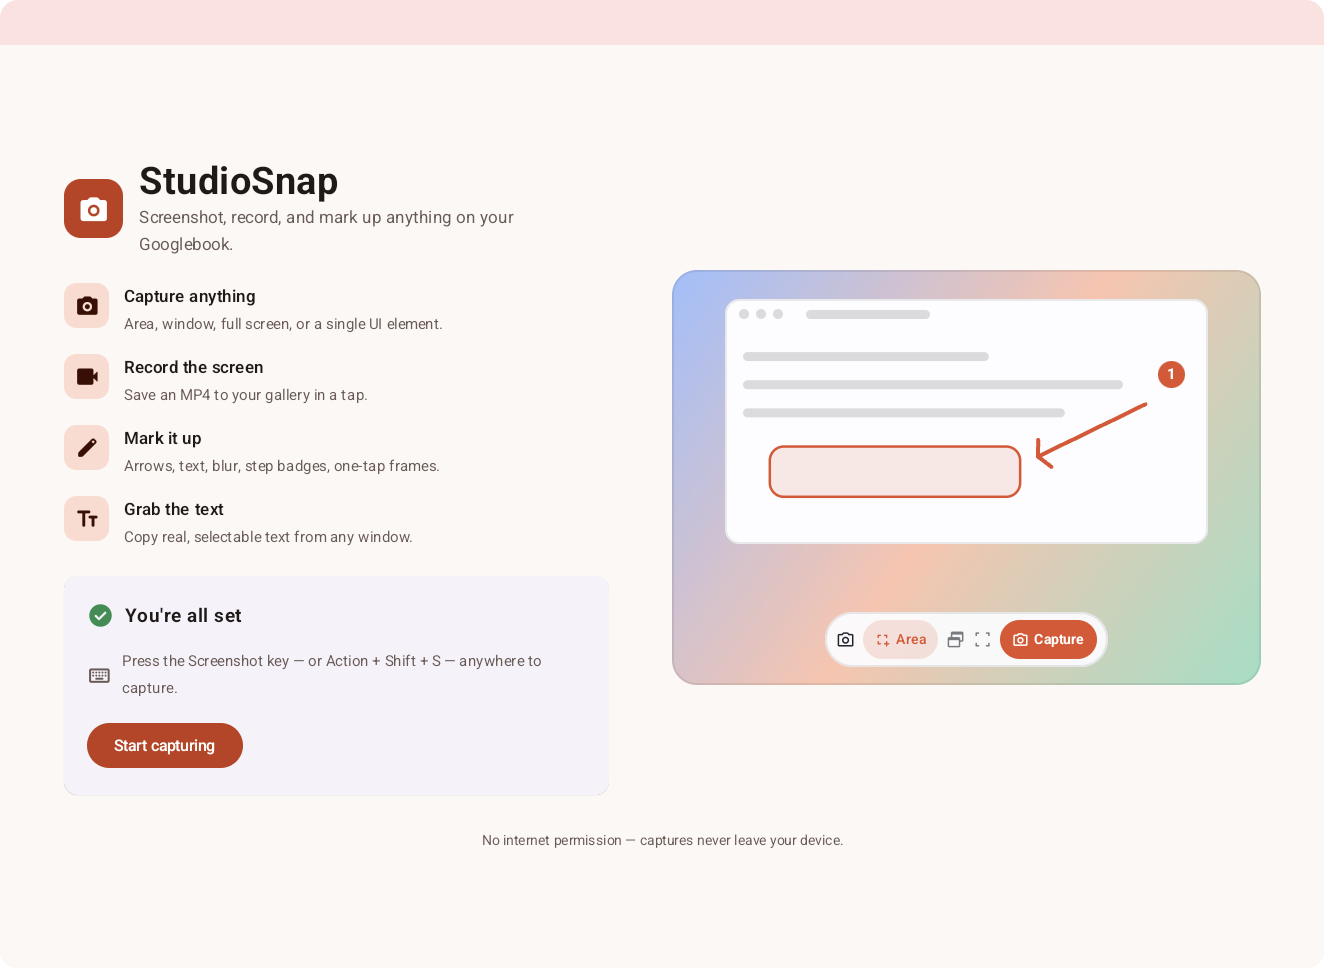
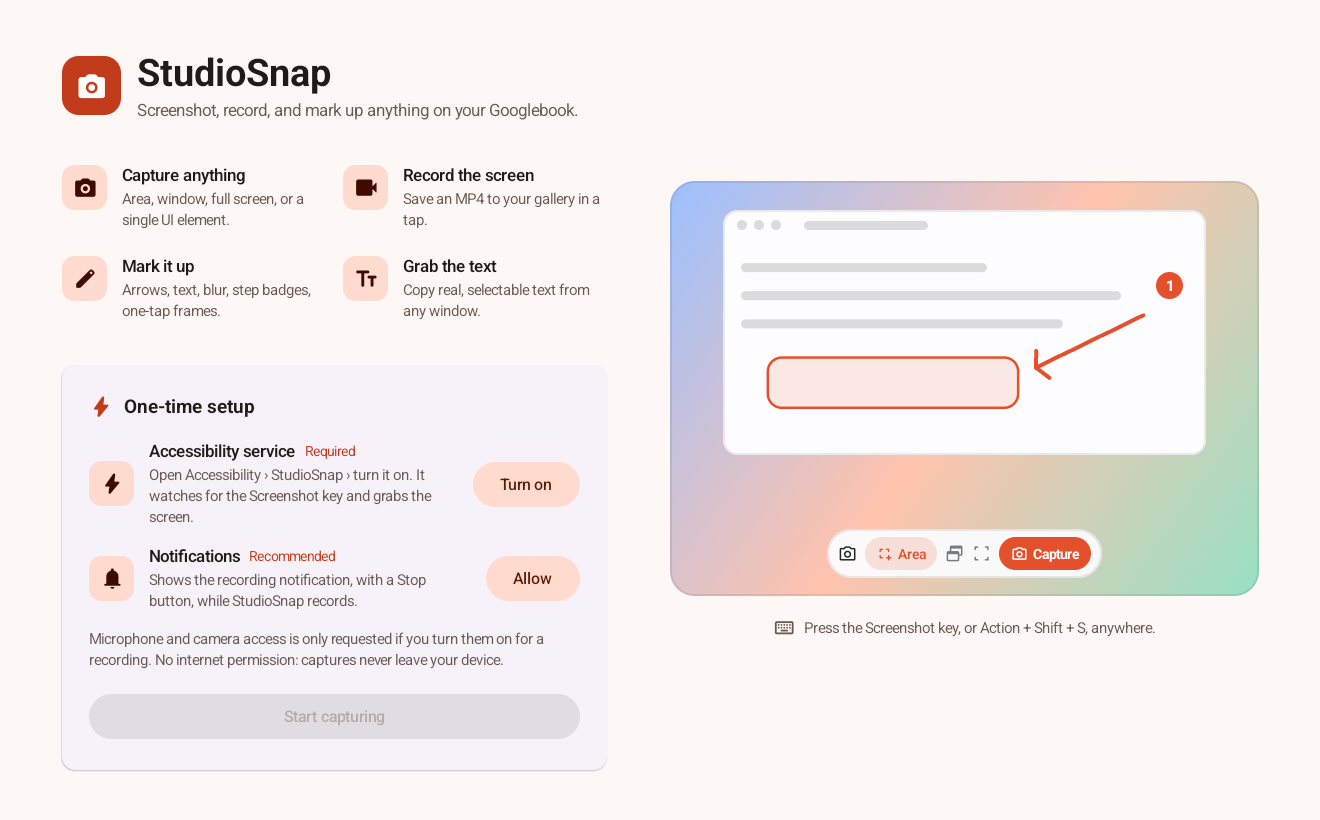
0.5.0: Jesse's five PRs; Play videos re-recorded, screenshot 04 shows the new first run
Claude-Session: https://claude.ai/code/session_01A7baRW6ye8n6TEwMLDyKpR

diff --git a/store-submission/forms/app-content.md b/store-submission/forms/app-content.md
@@ -17,6 +17,6 @@
 
 ## Declarations that need more than a tick
 
-- **Accessibility API.** StudioSnap is not an accessibility tool. Core feature: it notices the capture key (Screenshot key, or Action + Shift + S) and reads the screen's windows, UI elements and text when the user captures, to capture an area, a window, a UI element or text. It doesn't log keystrokes or store input, and nothing leaves the device (no internet permission). Needs a **video** showing the explanation before consent, the consent in Accessibility settings, and a capture with the key. The in-app disclosure (`ui/AccessibilityDisclosure.kt`, since PR #9) is a dialog that every Turn on opens (first run, home, Settings › Permissions): it names each use, says what the service reads stays on the device and is never collected or shared, and ends in **Agree and turn on** or **Cancel**. **The video filed on 2026-09-30 shows 0.4.1's setup card, not the dialog: re-record it before submitting a build with the dialog**, showing Turn on, the dialog, Cancel (the decline flow), Turn on again, Agree and turn on, the consent in Accessibility settings, and a capture with the key. Listing screenshot 04 shows the old card too.
+- **Accessibility API.** StudioSnap is not an accessibility tool. Core feature: it notices the capture key (Screenshot key, or Action + Shift + S) and reads the screen's windows, UI elements and text when the user captures, to capture an area, a window, a UI element or text. It doesn't log keystrokes or store input, and nothing leaves the device (no internet permission). Needs a **video** showing the explanation before consent, the consent in Accessibility settings, and a capture with the key. The in-app disclosure (`ui/AccessibilityDisclosure.kt`, since PR #9) is a dialog that every Turn on opens (first run, home, Settings › Permissions): it names each use, says what the service reads stays on the device and is never collected or shared, and ends in **Agree and turn on** or **Cancel**. Re-recorded for 0.5.0 on 2026-09-30 (https://youtu.be/mwZW_b2e714): Turn on, the dialog, Cancel (the decline flow), Turn on again, Agree and turn on, the consent in Accessibility settings, and a capture with the key. Listing screenshot 04 shows 0.5.0's first run.
 - **Foreground service permissions:** `mediaProjection` (screen recording the user starts, with Android's own consent each time and a notification with Stop; since 0.4.1 StudioSnap asks once for notifications before the first recording, otherwise Android hides that notification) and `microphone` (the voice-over and system audio while recording, only with those toggles on). Each needs a description and a **video** of the feature (one recording video can show both).
-- **Done 2026-09-30** (saved in Play Console, not sent for review): Accessibility API with App functionality and no data collected; media projection as "Media and content projection, streaming" and microphone as "Background audio input". The videos are unlisted on YouTube; links in Play Console and in kuscher/googlebook-tech `docs/PICKING-UP.md`.
+- **Done 2026-09-30** (saved in Play Console, not sent for review): Accessibility API with App functionality and no data collected; media projection as "Media and content projection, streaming" and microphone as "Background audio input". The videos are unlisted on YouTube; links in Play Console and in kuscher/googlebook-tech `docs/PICKING-UP.md`. For 0.5.0 both were re-recorded (accessibility https://youtu.be/mwZW_b2e714, recording https://youtu.be/y0SnZ3-ifPg, showing Video mode) and the declarations point at them.

diff --git a/docs/release-notes/0.5.0.md b/docs/release-notes/0.5.0.md
@@ -1,0 +1,22 @@
+A clearer first run, a bar that knows you're recording, and messages that always show. Everything still runs on your Googlebook: StudioSnap has no INTERNET permission.
+
+**Download:** grab `StudioSnap.apk` below. It installs over 0.4.1 and keeps your settings. If you installed 0.4 or earlier from GitHub before 30 September 2026, uninstall it once first: releases are signed with a new key, the same one Google Play uses.
+
+All five changes come from Jesse's testing of 0.4 on an Acer Googlebook 14 (#8 to #12).
+
+## New in 0.5.0
+
+- **First run on one page.** The four features in a grid and one setup card: the accessibility service, notifications, and a line on the microphone and camera. **Start capturing** is always there and unlocks once the service is on.
+- **Turn on explains itself every time.** Every **Turn on** (first run, home, Settings › Permissions) opens a short dialog that says what the service lets StudioSnap do and that what it reads stays on your Googlebook. **Agree and turn on** opens Android's settings; **Cancel** does nothing.
+- **Permissions in Settings.** Settings has a Permissions section for the service and notifications, and home shows a card while notifications are off.
+- **Video mode.** The bar's Record mode is now called **Video** (modes are nouns, buttons are verbs). Open the bar during a recording and it starts in Video mode with a red **Stop** button; a stray click elsewhere only closes the bar, never the recording.
+
+## Fixes
+
+- **Messages always show.** Hints like "Already recording" or "Stop the recording to change the mic or system audio" were dropped by Android when notifications were off. They now show as a small pill next to the bar.
+- **Camera bubble controls stay out of recordings.** While recording, the bubble's controls come up on a click, not on hover, and fold away after 3 seconds.
+- **The camera turns off at Stop**, and the recording is saved off the main thread, so StudioSnap stays responsive while a long recording is copied to Movies.
+
+## Permissions
+
+- No changes. Notifications can now also be allowed from the setup card or Settings; the microphone and camera are still asked for only when you first turn them on.

diff --git a/store-submission/README.md b/store-submission/README.md
@@ -31,7 +31,7 @@ made with `scripts/play/graphics.mjs` in kuscher/googlebook-tech.
    `~/.config/studiosnap/keystore.jks` (also in the repo secrets) with Google's PEPK tool, so the Play build and the APKs on GitHub have the same signature and people can
    move between them without uninstalling. The same key is the upload key.
 2. **Build the bundle** (Play only takes .aab files): `./gradlew :app:bundleRelease` → `app/build/outputs/bundle/release/app-release.aab`, signed with `~/.config/studiosnap/keystore.jks`. The release workflow (`.github/workflows/release.yml`) only builds the APK; the AAB is built where the key is (it's also in the repo secrets `STUDIOSNAP_KEYSTORE_B64` / `_PASS`). Each upload needs a higher version code than the last
-   (`versionCode` in `app/build.gradle.kts` (5 for 0.4.1)).
+   (`versionCode` in `app/build.gradle.kts` (6 for 0.5.0)).
 3. **Closed test first.** The developer account is a personal one: before production, a closed test with at least 12
    testers opted in for 14 days in a row.
 4. **Store listing, store settings and App content:** filled in from these files on 30 September 2026.

diff --git a/docs/PICKING-UP.md b/docs/PICKING-UP.md
@@ -396,3 +396,13 @@ Done when: Screenshot key → drag → paste into Gmail is under 2 s and feels f
 ./ss shot p0      # /tmp/ss-p0.png = the overlay only
 ./ss logs         # recent StudioSnap logcat
 ```
+
+## 0.5.0 (2026-09-30): Jesse's five PRs, released
+- #8 to #12 (messages in an overlay pill, the permissions card and first run with the disclosure as a dialog,
+  bubble controls on click while recording, camera off at Stop, Video mode with Stop) are in 0.5.0 (code 6).
+  Notes: `docs/release-notes/0.5.0.md`. Tagged `v0.5.0`, so the release workflow publishes the APK.
+- Play, as Jesse asked in #9: both declaration videos re-recorded on the "playvideo" emulator with 0.5.0
+  (accessibility: Turn on → dialog → Cancel, Turn on → Agree and turn on → consent, Screenshot key capture,
+  https://youtu.be/mwZW_b2e714; recording, now "Video" mode, https://youtu.be/y0SnZ3-ifPg), filed in the Console.
+  Listing screenshot 04 and `docs/screenshots/onboarding.png` show 0.5.0's first run. The 0.5.0 AAB replaced
+  0.4.1 as the closed-testing draft.
